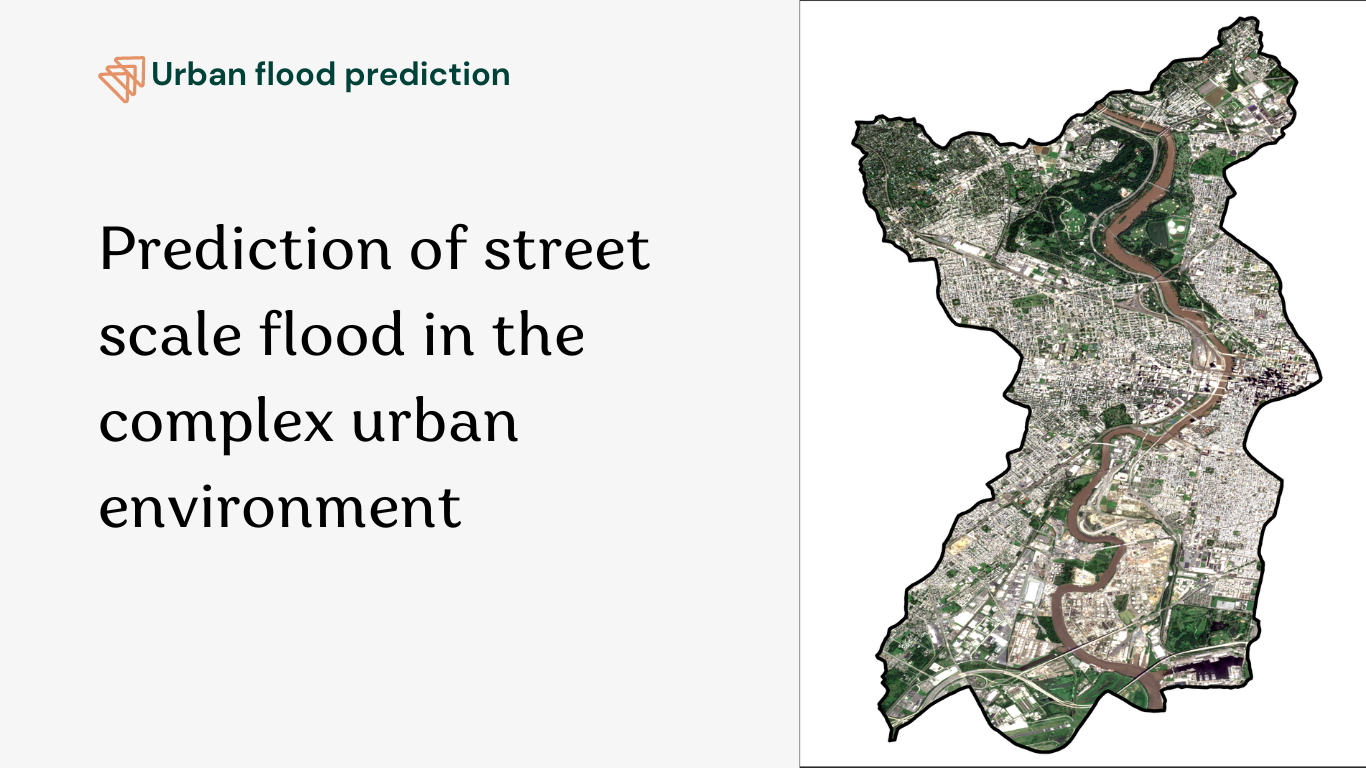
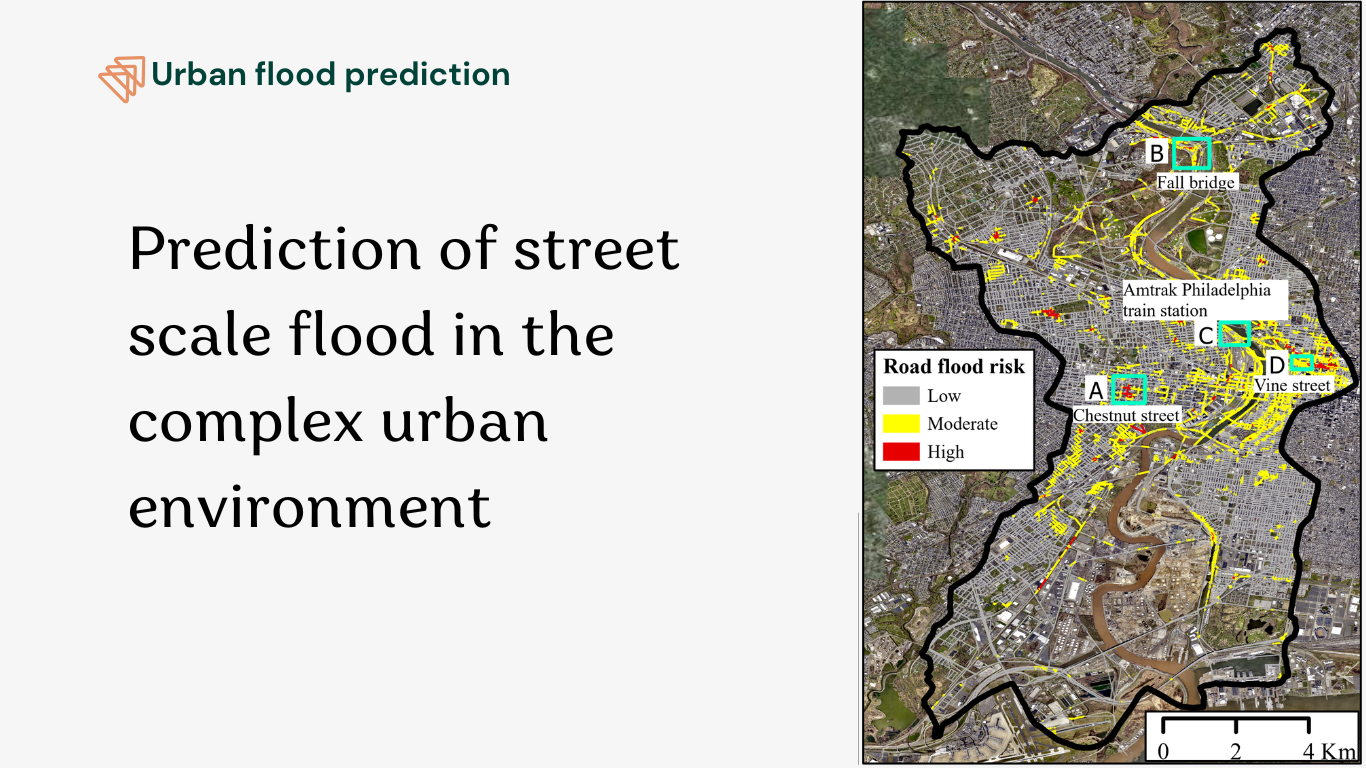
message

diff --git a/research.html b/research.html
@@ -120,6 +120,9 @@
                     <div class="swiper-slide">
                       <img src="assets/img/research/roshi.png" alt=""class="img-fluid">
                     </div>
+                    <div class="swiper-slide">
+                      <img src="assets/img/research/road.png" alt=""class="img-fluid">
+                    </div>
     
                   </div>
                   <div class="swiper-pagination"></div>
@@ -130,14 +133,20 @@
 
               <div class="content">
                 <ul>
-                    <li>Groundwater Vulnerability Assessment [Unisha Ghimire, Yogesh Bhattarai, Sunil Duwal]</li>
-                    <li>Flood depth prediction using hydraulic modeling and machine learning[Sunil Duwal, Yogesh Bhattarai]</li>
+                    <li>Ensemble Learning for Enhancing Critical
+                      Infrastructure Resilience to Urban Flooding [Yogesh Bhattarai, Sanjib Sharma]</li>
+                    <li>Machine learning-based flood-impact prediction for disaster resilience [Yogesh Bhattarai, Danda B Rawat, Sanjib Sharma]</li>
+                    <li>Flood depth prediction using hydraulic modeling and machine learning [Sunil Duwal, Yogesh Bhattarai]</li>
                 </ul>
               </div><!-- End post content -->
               <h2 class="title"> Journal Articles</h2>
 
               <div class="content" style="text-align: justify;">
                 <ul>
+                    <li> <strong>Bhattarai, Y.</strong>, Bista, S., Talchabhadel, R., Duwal, S., & Sharma, S. (2024). 
+                      Rapid prediction of urban flooding at street-scale using physics-informed 
+                      machine learning-based surrogate modeling. Total Environment Advances, 12, 200116.
+                    </li>
                     <li> Mangkhaseum, S., <strong>Bhattarai, Y.</strong>, Duwal, S., & Hanazawa, A. (2024). 
                       Flood susceptibility mapping leveraging open-source remote-sensing data and 
                       machine learning approaches in Nam Ngum River Basin (NNRB), Lao PDR. Geomatics, 
@@ -188,6 +197,9 @@
 
               <div class="content">
                 <ul>
+                  <li><strong>Bhattarai, Y.</strong>, Sharma, S. Advancing Earth Science Education through Generative Artificial Intelligence. 
+                    FARR Workshop, Washington DC, October 2024</li>
+                  <li><strong>Bhattarai, Y.</strong>, Sharma, S. AI/ML and Earth Observations for Flood Predictions. IPDR Workshop, Washington DC, October 2024</li>
                   <li><strong>Bhattarai, Y.</strong>Introduction to Google Earth Engine.
                   Lecture presented at Department of Geography, Patan Multiple Campus, Tribhuvan University</li>
                   <li><strong>Bhattarai, Y.</strong> (Moderator).
